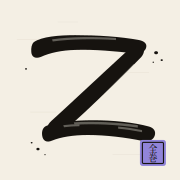
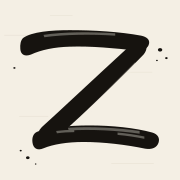
Passer l'icone a la variante sans sceau
Le sceau 全巻 quitte l'icone. Le trait est agrandi de 12 % et recentre sur
le vide qu'il laissait en bas a droite. Cinq PNG servis, l'apple-icon, le
favicon, les six SVG sources et le generateur viennent du jeu livre.

Consequence a connaitre, et c'est pour ca qu'elle est ecrite dans le
README de design/zenkan/ : l'icone ne porte plus aucun violet alors que
--color-accent reste #9184d9. L'egalite entre les deux etait la
justification d'origine du sceau, elle n'existe plus. Le manifeste n'est
pas concerne, son theme_color est COULEUR_FOND_APPLICATION et jamais
l'accent.

Le favicon.ico est assemble ici, le jeu livre n'en contient pas. Premier
essai : 500 sur toutes les pages, « The PNG is not in RGBA format ». Les
PNG livres sont en colorType 2, truecolor sans couche alpha, et le
decodeur d'icones de Next exige du RGBA. Convertis avant l'embarquement,
le conteneur passe — trois entrees 16, 32 et 48, payloads PNG. Le README
le dit desormais, parce que rien ne le signale et qu'un typecheck le
laisse passer.

Deux corrections sur les fichiers livres. RACINE pointait
/home/claude/zenkan-icones-sans-sceau, le chemin de la machine ou le
script a ete ecrit : le depot avait os.path.dirname(__file__), retabli,
sinon une regeneration ecrit dans le vide. Et SCEAU, POLICE_CJK et
sceau() restaient en place sans plus aucun appel — supprimes, comme le
reste du projet supprime plutot que de laisser en dormance.

Le marqueur BEGIN:nextjs-agent-rules manquait de CLAUDE.md alors que le
[…]

diff --git a/design/zenkan/generate_icons.py b/design/zenkan/generate_icons.py
@@ -7,7 +7,6 @@ RACINE = os.path.dirname(os.path.abspath(__file__))
 
 PAPIER = "#f4efe4"
 ENCRE = "#16130f"
-SCEAU = "#9184d9"
 FIBRES_CLAIR = "#d8cfbd"
 FIBRES_SOMBRE = "#2a251d"
 
@@ -49,37 +48,11 @@ FIBRES = (
     '<rect x="164" y="62" width="58" height="1.1"/>'
 )
 
-POLICE_CJK = "Noto Serif CJK JP, Noto Serif CJK SC, serif"
-
-
-def sceau(avec_caracteres, contraste):
-    filet = (
-        f'<rect x="7" y="7" width="60" height="60" rx="3" fill="none" '
-        f'stroke="{contraste}" stroke-width="3.2"/>'
-    )
-    caracteres = ""
-    if avec_caracteres:
-        caracteres = (
-            f'<text x="37" y="34" text-anchor="middle" font-family="{POLICE_CJK}" '
-            f'font-size="25" fill="{contraste}">\u5168</text>'
-            f'<text x="37" y="61" text-anchor="middle" font-family="{POLICE_CJK}" '
-            f'font-size="25" fill="{contraste}">\u5dfb</text>'
-        )
-    else:
-        filet = ""
-    return (
-        '<g transform="translate(398, 398)">'
-        f'<rect x="0" y="0" width="74" height="74" rx="7" fill="{SCEAU}"/>'
-        f'{filet}{caracteres}</g>'
-    )
-
-
 def construire(detail, sombre=False, fond=True, marge=0):
     """detail: 'complet' | 'moyen' | 'minimal'."""
     encre = PAPIER if sombre else ENCRE
     papier = ENCRE if sombre else PAPIER
     fibres = FIBRES_SOMBRE if sombre else FIBRES_CLAIR
-    contraste_sceau = ENCRE
 
     echelle = 1 - 2 * marge
     corps = []
@@ -90,11 +63,12 @@ def construire(detail, sombre=False, fond=True, marge=0):
         corps.append(f'<g fill="{papier}" opacity="0.34">{KASURE}</g>')
     if detail == "complet":
         corps.append(f'<g fill="{encre}">{ECLABOUSSURES}</g>')
-        corps.append(sceau(True, contraste_sceau))
-    elif detail == "moyen":
-        corps.append(sceau(False, contraste_sceau))
 
-    interieur = "".join(corps)
+    interieur = (
+        '<g transform="translate(256,256) scale(1.12) translate(-266,-252)">'
+        + "".join(corps)
+        + "</g>"
+    )
     if marge:
         decalage = 512 * marge
         interieur = f'<g transform="translate({decalage},{decalage}) scale({echelle})">{interieur}</g>'

diff --git a/design/zenkan/README.md b/design/zenkan/README.md
@@ -1,7 +1,13 @@
 # Icône Zenkan
 
-Un Z au pinceau, style sumi-e, sur fond papier. Sceau 全巻 — « tous les volumes » — dans
-l'accent Nocturne `#9184d9`, qui est exactement `--color-accent` de `app/globals.css`.
+Un Z au pinceau, style sumi-e, sur fond papier. Rien d'autre : deux couleurs, un trait.
+
+**Le sceau 全巻 a été retiré le 18 septembre 2026.** Il portait l'accent Nocturne `#9184d9` dans
+le coin bas droit ; sans lui le trait est agrandi de 12 % et recentré, parce qu'il flottait dans
+le cadre et laissait ce coin vide. **L'icône ne porte donc plus aucun violet**, alors que
+`--color-accent` de `app/globals.css` reste `#9184d9` : le lien entre l'icône et l'accent de
+l'interface est rompu, et c'est le seul endroit qui le dit. Le manifeste n'est pas concerné —
+son `theme_color` est `COULEUR_FOND_APPLICATION`, le fond de l'application, jamais l'accent.
 
 ## Ce qui est servi, et d'où
 
@@ -21,18 +27,24 @@ justement l'écran qu'on voit avant de se connecter.
 
 ## Le maskable n'est pas un doublon
 
-Android découpe l'icône selon la forme du lanceur — cercle, carré arrondi, goutte. Une icône
-`any` rognée perd son sceau, qui est dans le coin. Les versions `maskable` portent 14 % de
-marge sur chaque bord pour survivre à n'importe quelle découpe. Les deux jeux sont nécessaires.
+Android découpe l'icône selon la forme du lanceur — cercle, carré arrondi, goutte. Le trait
+touche presque le bord depuis qu'il a été agrandi de 12 %, donc une icône `any` rognée y perd
+ses extrémités. Les versions `maskable` portent 14 % de marge sur chaque bord pour survivre à
+n'importe quelle découpe. Les deux jeux sont nécessaires.
 
-## Trois niveaux de détail, et pourquoi
+## Trois niveaux de détail, dont deux servis
 
 Le dessin n'est pas le même selon la taille, parce que le détail devient de la bouillie en
 dessous d'un certain rendu :
 
-- **512 à 180 px** — complet : traits, pinceau sec, éclaboussures, sceau avec 全巻
-- **144 à 72 px** — le sceau perd ses caractères, les éclaboussures et les fibres sautent
+- **512 à 180 px** — complet : traits, pinceau sec, éclaboussures, fibres de papier
+- **144 à 72 px** — les éclaboussures et les fibres sautent, le pinceau sec reste
 - **48 px et moins** — le trait seul, et c'est ce que porte `favicon.ico`
+
+**Le palier du milieu n'est servi nulle part** : le manifeste ne demande que 192, 384 et 512, et
+l'application ne pose aucune balise en 144, 96 ou 72. Le générateur rend ces trois cotes quand
+même, et elles restent dans `icons/`, que git ignore. Le retrait du sceau n'a pas supprimé ce
+palier — il lui a retiré un de ses deux motifs, le sceau y perdait ses caractères.
 
 ## Régénérer
 
@@ -50,12 +62,21 @@ développement** : il réclame les bibliothèques Cairo, ce qui n'est pas acquis
 PNG livrés ont été rendus ailleurs, et les SVG de `svg/` se rouvrent dans n'importe quel
 navigateur pour juger un changement sans rien installer.
 
+**Et le générateur ne produit aucun `.ico`.** Il rend `favicon-16.png`, `favicon-32.png` et
+`icon-48.png` ; `app/favicon.ico` est un conteneur qu'il faut assembler à partir des trois, avec
+leurs octets PNG embarqués tels quels — c'est un format que tous les navigateurs actuels lisent.
+Oublier cette étape laisse l'ancienne icône dans l'onglet alors que tout le reste a changé, et
+rien ne le signale.
+
 ## Couleurs
 
 - Papier `#f4efe4`
 - Encre `#16130f`
-- Sceau `#9184d9` — ses caractères sont **en encre, pas en blanc** : le blanc sur ce violet
-  tombe à 2,8:1 et disparaît sous 76 px.
+
+Il n'y en a plus que deux. `SCEAU`, `POLICE_CJK` et la fonction `sceau()` ont été retirés du
+générateur en même temps que les appels : le jeu livré les laissait en place sans les appeler,
+et du code mort dans un script qu'on relance une fois par an ne se distingue pas d'un code
+vivant.
 
 La variante sombre (`svg/zenkan-icone-sombre.svg`) existe et n'est pas servie. Une icône
 d'écran d'accueil se pose sur le fond d'écran de l'utilisateur, pas sur celui de l'application :

diff --git a/TODO.md b/TODO.md
@@ -145,10 +145,14 @@ Ce qui reste :
   cache, donc §6 décrit une cible et pas l'état. L'installation, elle, n'attend que le HTTPS.
 
   **Les icônes sont celles de Zenkan depuis le 17 septembre 2026** — un Z au pinceau sur fond
-  papier, sceau 全巻 dans l'accent Nocturne `#9184d9`, qui est exactement `--color-accent`. Cinq
-  PNG servis depuis `public/icons/` (3 `any`, 2 `maskable`), plus `app/apple-icon.png` et
-  `app/favicon.ico` par les conventions de fichiers de Next. Les sources — SVG et générateur —
-  vivent dans `design/zenkan/`, qui porte son propre README.
+  papier. Cinq PNG servis depuis `public/icons/` (3 `any`, 2 `maskable`), plus
+  `app/apple-icon.png` et `app/favicon.ico` par les conventions de fichiers de Next. Les
+  sources — SVG et générateur — vivent dans `design/zenkan/`, qui porte son propre README.
+
+  **Le sceau 全巻 a été retiré le 18 septembre 2026**, et avec lui le seul violet de l'icône : le
+  trait est agrandi de 12 % et recentré sur le vide que le sceau laissait. `--color-accent` reste
+  `#9184d9` côté interface, mais l'icône ne le porte plus — l'égalité entre les deux, qui était
+  la justification d'origine, n'existe plus.
 
   Deux choses tranchées avec elles : **`background_color` et `theme_color` restent `#161826`**
   et non le papier `#f4efe4` proposé par le jeu d'icônes, sinon le lancement ferait un flash

diff --git a/CLAUDE.md b/CLAUDE.md
@@ -1568,6 +1568,8 @@ là où c'est la forme des actions qui protège.
 l'invité savait faire et qui n'est jamais revenue —, et tout ce que §13.3 met derrière le mur :
 comparaison, suivi d'autres comptes, badges.
 
+<!-- BEGIN:nextjs-agent-rules -->
+
 # This is NOT the Next.js you know
 
 This version has breaking changes — APIs, conventions, and file structure may all differ from your training data. Read the relevant guide in `node_modules/next/dist/docs/` (resolved from this file's directory; in monorepos the `next` package may not be visible from the repo root) before writing any code. Heed deprecation notices.
